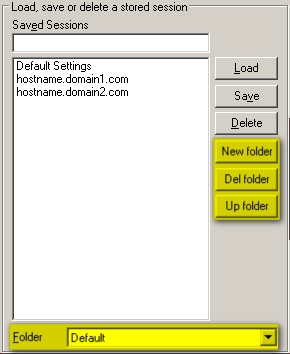
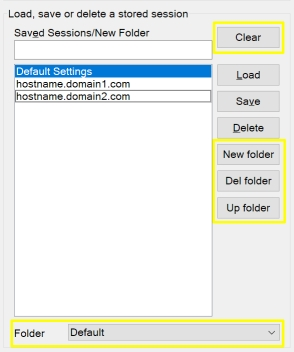
Docs

diff --git a/docs/pages/SessionsFilter.md b/docs/pages/SessionsFilter.md
@@ -1,10 +1,23 @@
 <div style="text-align: center;"><iframe src="gad.html" frameborder="0" scrolling="no" style="border: 1px solid gray; padding: 0; overflow:hidden; scrolling: no; top:0; left: 0; width: 100%;" onload="this.style.height=(this.contentWindow.document.body.scrollHeight+5)+'px';"></iframe></div>
 ## Sessions filter
+
+### Folders
 If you need to manage a large number of sessions, with KiTTY you can organize them into folders. One folder for each type of application, one folder per machine, one folder per environment ... or any other organisation. 
 In the main configuration box you will find a new dropdown box. By selecting a specific folder you can reduce the number of sessions displayed in the selection list above.
  
 ![Config folder](../img/config_folder.jpg)
 
+For more information about folders management, consult the [manual](../doc/kitty-folders_list_feature.pdf "Kitty folder list feature").
+
+### Pattern
 It is also possible to filter on session name or session hostname by writing characters into '''Saved Session/New Folder''' field.
 
-For more information about folders management, consult the [manual](../doc/kitty-folders_list_feature.pdf "Kitty folder list feature").
+This feature can be turned on/off by adding these lines in your **%APPDATA%/KiTTY/Kitty.ini** configuration file.
+
+```
+[ConfigBox]
+; filter: enable/disable filter in saved sessions selection box
+filter=yes
+```
+
+All filter can be cleared by pressing the `Clear`button.
